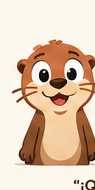
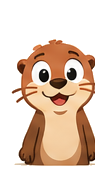
Ruti: fondo realmente transparente (relleno por conexion, no por color) + mas grande
El colorkey por color (fondo crema vs blanco de los ojos, tonos muy
parecidos) dejaba huecos transparentes DENTRO de los ojos -- la usuaria
lo reporto ("sigue sin lo blanco de los ojos, se ve mal") y tenia razon,
no era un artefacto de zoom como asumi primero. Verificado pixel por
pixel con Python/Pillow: colorkey creaba (0,0,0,0) en medio del blanco
del ojo.

Solucion real: relleno por flood-fill (BFS) empezando SOLO desde el
borde de cada recorte -- unicamente el fondo que esta conectado al
borde se vuelve transparente, sin importar que su color sea parecido a
otro color usado adentro del personaje (como el blanco del ojo, que no
esta conectado al fondo exterior). Verificado de nuevo pixel por pixel:
ya no hay huecos, los ojos quedan solidos.

De paso se recorto la altura de saludo/feliz/curiosa (tenian un
resto de las comillas del texto de la frase colandose en el borde
inferior) y se agrando el tamano en las 3 pantallas donde aparece
(quiz bienvenida 64->120, resultado del quiz 72->100, racha 84->110).

Changed region(s): [[0.1263, 0.1966, 1.0, 1.0]]

diff --git a/js/views/quiz.js b/js/views/quiz.js
@@ -80,7 +80,7 @@ export function renderQuiz(container) {
       sub: 'Vamos a conocerte un poco para personalizar tu experiencia. Esto no reemplaza una consulta médica, pero nos ayuda a darte mejores recomendaciones.',
       render(el) {
         el.innerHTML = `
-          <div class="center mb">${rutiSiVisible('saludo', { size: 64 })}</div>
+          <div class="center mb">${rutiSiVisible('saludo', { size: 120 })}</div>
           <p class="center small" style="font-weight:600">Hola, soy Ruti. Vamos a encontrar una Ruta que funcione para ti.</p>
           <label class="muted mt" for="q-nombre" style="display:block">${answers.nombre ? `Te llamaremos <strong>${esc(answers.nombre)}</strong>. Puedes cambiarlo si quieres:` : '¿Cómo te llamas? (opcional)'}</label>
           <input id="q-nombre" type="text" placeholder="Tu nombre o alias" maxlength="60" class="auth-input">
@@ -339,7 +339,7 @@ export function renderQuiz(container) {
     view.innerHTML = `
       <div class="quiz-progress"><div style="width:100%"></div></div>
       <div class="card center">
-        ${rutiSiVisible('saludo', { size: 72 })}
+        ${rutiSiVisible('saludo', { size: 100 })}
         <h2 class="mt">${answers.nombre ? `${esc(answers.nombre)}, tu` : 'Tu'} plan está listo</h2>
         <p class="small mt">Perfil principal: <strong>${PROFILES[main].nombre}</strong></p>
         ${rest.length ? `<p class="mt">También te conviene seguir: <strong>${rest.map((p) => PROFILES[p].nombre).join(', ')}</strong></p>` : ''}

diff --git a/js/streakAnim.js b/js/streakAnim.js
@@ -96,7 +96,7 @@ export function celebrateStreak(n, stats) {
     </div>
     <div class="streak-act streak-act-2">
       <div class="streak-title-sm">🔥 ¡Racha de ${n} día${n === 1 ? '' : 's'}!</div>
-      ${rutiMascot('celebracion', { size: 84, animated: false })}
+      ${rutiMascot('celebracion', { size: 110, animated: false })}
       <div class="cw-strip">${celebrateWeekStrip()}</div>
       <p class="small streak-tip">Vuelve mañana para sumar otro día — sin presión, a tu ritmo.</p>
     </div>`;

diff --git a/sw.js b/sw.js
@@ -1,4 +1,4 @@
-const CACHE = 'nutriruta-8edab9139f';
+const CACHE = 'nutriruta-f73240b9a5';
 const ASSETS = [
   './',
   './index.html',
